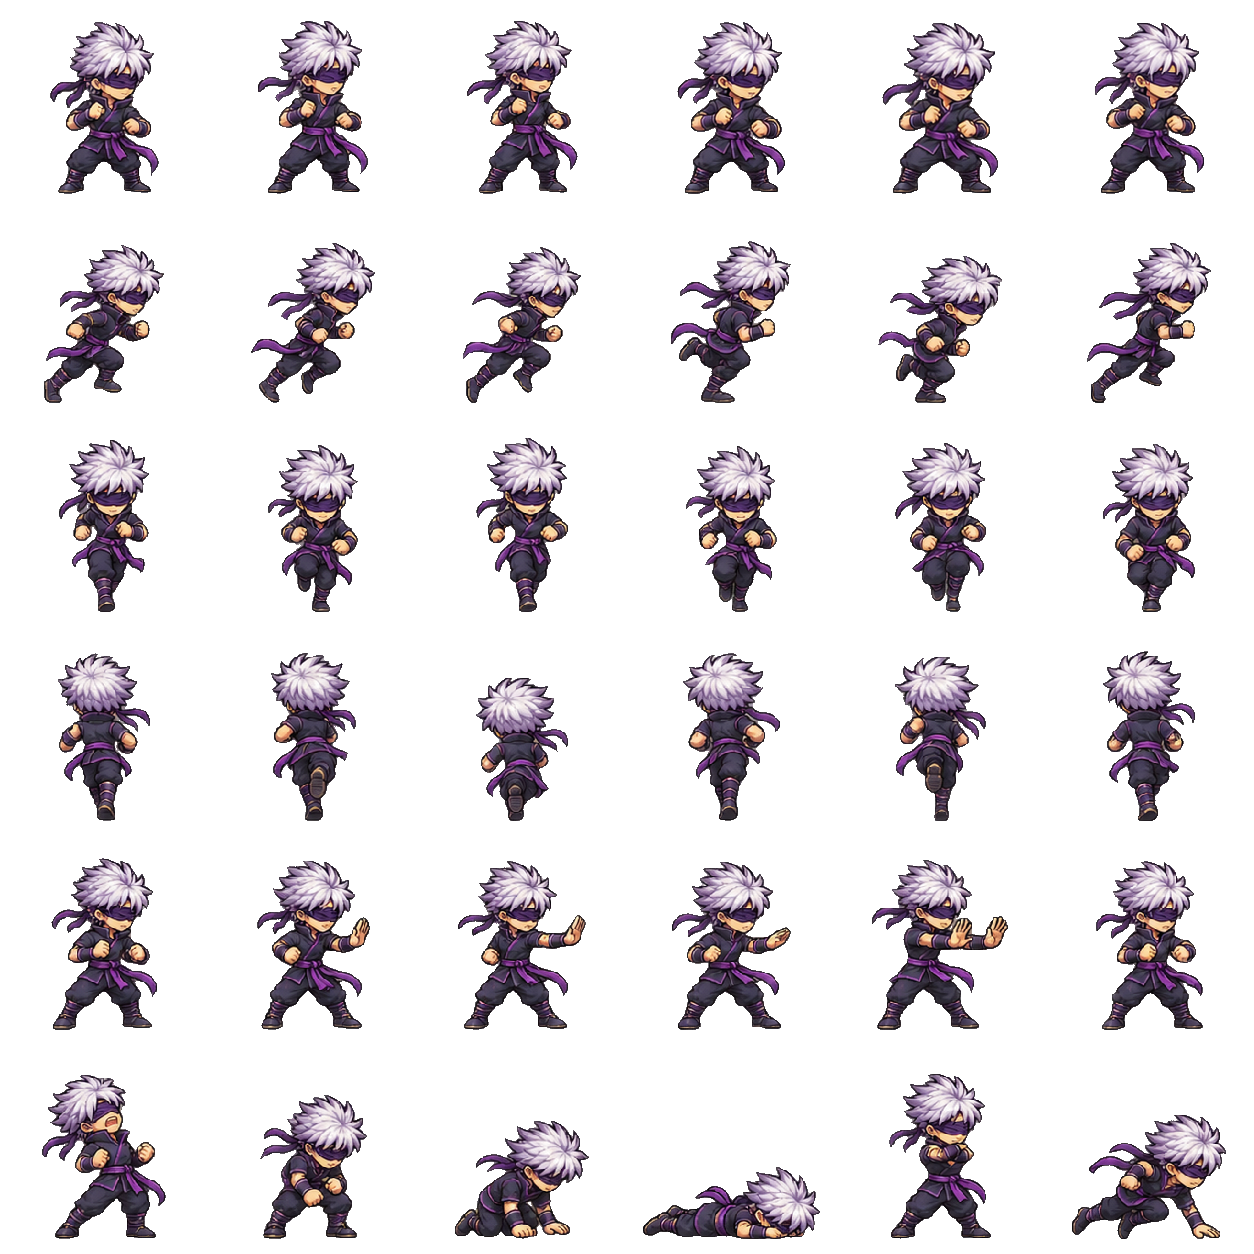
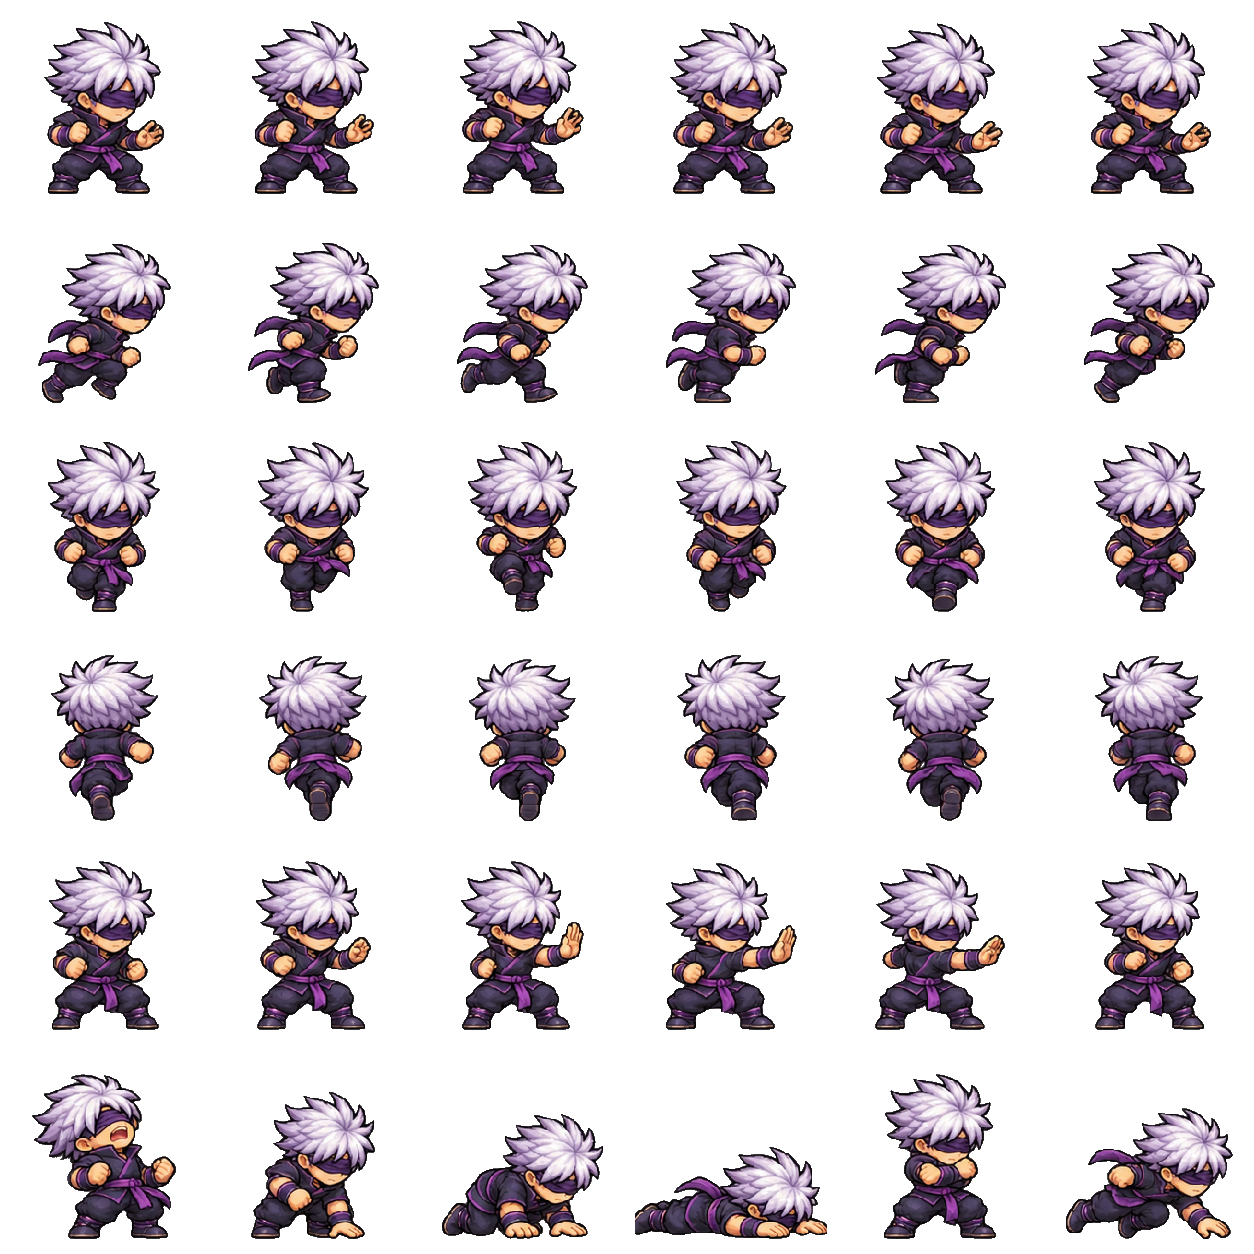
Give Eclipse a unique selection pose and compact combat proportions

diff --git a/index.html b/index.html
@@ -12,5 +12,5 @@
 <section id="modeScreen" class="app-screen" hidden></section><div id="shopConfirm" hidden></div>
 <div id="integrationLoading" role="status" aria-live="polite"><span class="eyebrow">ELDORIA</span><h2>Iniciando Arena dos Campeões…</h2><p id="bootStage">Preparando menus e personagens.</p></div>
 <script src="js/diagnostico.js"></script>
-<script src="js/jogo.js?v=35"></script><script src="js/identidades_campeoes.js?v=11"></script><script src="js/seis_identidades.js?v=20"></script><script src="js/impactos_futuros.js?v=19"></script><script src="js/arena_horizontal.js?v=16"></script><script src="js/lobby_real.js?v=9"></script><script src="js/menus_simples.js?v=20"></script><script src="js/pixel_sprite.js?v=8"></script><script src="js/combate_identidades.js?v=26"></script><script src="js/combate_seis.js?v=27"></script><script src="js/arte_identidades.js?v=30"></script><script src="js/arte_seis.js?v=27"></script><script src="js/interface_identidades.js?v=11"></script><script src="js/interface_seis.js?v=10"></script><script src="js/arena_arte.js?v=15"></script><script src="js/layout_fixo.js?v=19"></script><script src="js/ninja_v22.js?v=26"></script><script src="js/corpos_v24.js?v=28"></script><script src="js/ninja_v25.js?v=26"></script><script src="js/acoes_universais.js?v=26"></script><script src="js/ichigo_v27.js?v=30"></script><script src="js/solar_v29.js?v=33"></script><script src="js/eclipse_v30.js?v=30"></script><script src="js/recuperar_artes.js?v=20"></script><script src="js/ui_escala.js?v=4"></script><script src="js/chefes_base.js?v=1"></script><script src="js/chefes_looks.js?v=1"></script><script src="js/vilao_zorvath.js?v=2"></script><script src="js/cacada_dia.js?v=11"></script><script src="js/chefes_motor.js?v=3"></script><script src="js/chefes_lote.js?v=1"></script><script src="js/menu_v2.js?v=3"></script><script src="js/retencao.js?v=3"></script><script src="js/copia_chefe.js?v=3"></script><script src="js/fase_arcade.js?v=10"></script><script src="js/sobrevivencia.js?v=14"></script><script src="js/economia.js?v=2"></script><script src="js/combate_v3.js?v=13"></script><script src="js/hud_v3.js?v=4"></script><script src="js/combate_v3b.js?v=2"></script><script src="js/menus_v3.js?v=2"></script><script src="js/iniciar.js"></script><script src="js/tela_cheia.js?v=17"></script></body></html>
+<script src="js/jogo.js?v=35"></script><script src="js/identidades_campeoes.js?v=11"></script><script src="js/seis_identidades.js?v=20"></script><script src="js/impactos_futuros.js?v=19"></script><script src="js/arena_horizontal.js?v=16"></script><script src="js/lobby_real.js?v=9"></script><script src="js/menus_simples.js?v=20"></script><script src="js/pixel_sprite.js?v=8"></script><script src="js/combate_identidades.js?v=26"></script><script src="js/combate_seis.js?v=27"></script><script src="js/arte_identidades.js?v=30"></script><script src="js/arte_seis.js?v=27"></script><script src="js/interface_identidades.js?v=11"></script><script src="js/interface_seis.js?v=10"></script><script src="js/arena_arte.js?v=15"></script><script src="js/layout_fixo.js?v=19"></script><script src="js/ninja_v22.js?v=26"></script><script src="js/corpos_v24.js?v=28"></script><script src="js/ninja_v25.js?v=26"></script><script src="js/acoes_universais.js?v=26"></script><script src="js/ichigo_v27.js?v=30"></script><script src="js/solar_v29.js?v=33"></script><script src="js/eclipse_v30.js?v=31"></script><script src="js/recuperar_artes.js?v=20"></script><script src="js/ui_escala.js?v=4"></script><script src="js/chefes_base.js?v=1"></script><script src="js/chefes_looks.js?v=1"></script><script src="js/vilao_zorvath.js?v=2"></script><script src="js/cacada_dia.js?v=11"></script><script src="js/chefes_motor.js?v=3"></script><script src="js/chefes_lote.js?v=1"></script><script src="js/menu_v2.js?v=3"></script><script src="js/retencao.js?v=3"></script><script src="js/copia_chefe.js?v=3"></script><script src="js/fase_arcade.js?v=10"></script><script src="js/sobrevivencia.js?v=14"></script><script src="js/economia.js?v=2"></script><script src="js/combate_v3.js?v=13"></script><script src="js/hud_v3.js?v=4"></script><script src="js/combate_v3b.js?v=2"></script><script src="js/menus_v3.js?v=2"></script><script src="js/iniciar.js"></script><script src="js/tela_cheia.js?v=17"></script></body></html>
 

diff --git a/js/eclipse_v30.js b/js/eclipse_v30.js
@@ -1,6 +1,6 @@
 'use strict';
 // Visual adapters only: damage, movement, resources and cooldowns stay in the combat engine.
-const ECLIPSE30_BODY=rwImage('assets/eclipse_v30/body.webp?v=30');
+const ECLIPSE30_BODY=rwImage('assets/eclipse_v30/body.webp?v=31');
 const ECLIPSE30_KEYS=['repulse','attract','red','teleport','barrier','domain'];
 const ECLIPSE30_FX=Object.fromEntries([...ECLIPSE30_KEYS,'impact'].map(k=>[k,rwImage(`assets/eclipse_v30/${k}.webp?v=30`)]));
 let eclipse30Registration=null;
@@ -87,7 +87,7 @@ rwPaintFX=function(e){if(e.kind==='eclipse-contact')return eclipse30Effect(ctx,'
 const eclipse30OldIcon=icon;
 icon=function(id){const s=skills[id];return s?.champion===4?`<span class="skill-art reforged-icon" aria-hidden="true" style="background-image:url('assets/eclipse_v30/icon-${s.slot}.webp?v=30')"></span>`:eclipse30OldIcon(id);};
 const eclipse30OldArt=championArt;
-championArt=c=>c.id===4?'assets/portraits/campeao_05.webp':eclipse30OldArt(c);
-CHAMPION_HEROES.eclipse='assets/portraits/campeao_05.webp';
+championArt=c=>c.id===4?'assets/eclipse_v30/portrait.webp?v=31':eclipse30OldArt(c);
+CHAMPION_HEROES.eclipse='assets/eclipse_v30/portrait.webp?v=31';
 const eclipse30OldDetail=openChampionDetails;
 openChampionDetails=function(id){eclipse30OldDetail(id);$('#heroDetail')?.classList.toggle('eclipse-detail',Number(id)===4);};

diff --git a/assets/eclipse_v30/README.md b/assets/eclipse_v30/README.md
@@ -1,11 +1,12 @@
 # Lutador do Eclipse — pacote de arte v30
 
-Referência fixa: `assets/portraits/campeao_05.webp`, preservado sem alterações. Corpo e ícones usam cabelo branco, faixa roxa sobre os olhos, anatomia esbelta e traje escuro com detalhes roxos. Referências de acabamento: Guerreiro Astral, Ninja das Brumas e Ronin Carmesim.
+Identidade original: `assets/portraits/campeao_05.webp`, preservado sem alterações. Corpo e ícones usam cabelo branco, faixa roxa sobre os olhos, anatomia compacta de combate e traje escuro com detalhes roxos. Revisão visual 31: nova pose de seleção com eclipse sobre a palma aberta; corpo com cabeça maior, tronco e pernas curtos, na proporção dos quatro primeiros campeões.
 
 Todos os arquivos são **WebP sem perdas**. Corpo e efeitos têm fundo transparente; os ícones têm transparência fora da moldura arredondada. O cenário de seleção é opaco, como nos outros pacotes.
 
 | Arquivo | Conteúdo |
 |---|---|
+| `portrait.webp` | 760 × 1140; nova pose de seleção, mão na cintura e eclipse sobre a outra palma, fundo transparente. |
 | `body.webp` | 1254 × 1254; 6 × 6 células de 209 × 209. Linhas: repouso, corrida lateral, frontal, costas, ataques. Última linha: reação, recuperação, queda, caído, defesa, avanço. |
 | `icon-0.webp` | Repulsão: palma lançando onda azul. |
 | `icon-1.webp` | Atração: mão puxando um vórtice violeta. |
@@ -27,10 +28,11 @@ Todos os arquivos são **WebP sem perdas**. Corpo e efeitos têm fundo transpare
 O corpo tem os pés na linha **y = 193** de cada célula e altura máxima de repouso de **173 px**. Para a escala do elenco, normalize essa altura para aproximadamente **73 px** em combate, mantendo o apoio dos pés em **y = 9** relativo ao ator. Use centro horizontal fixo **104,5**, espelhamento horizontal para olhar à esquerda e respiração ancorada nos pés. Os efeitos têm margem transparente de pelo menos **16 px** em cada célula; o brilho interno é preservado.
 
 Exportação: `node scripts/import-eclipse-v30.cjs /pasta/dos/pngs`.
+Para revisar apenas corpo e retrato: `node scripts/import-eclipse-v30.cjs /pasta/com/body-e-portrait-png --character-only`.
 Validação: `node tests/eclipse-v30.cjs`.
 
 ## Integração no jogo
 
-`js/eclipse_v30.js` conecta o corpo, os ícones e os sete efeitos aos eventos existentes de combate; `css/eclipse_v30.css` aplica o cenário da seleção. O retrato continua apontando para `assets/portraits/campeao_05.webp`. O corpo é desenhado diretamente na resolução do canvas, como os quatro primeiros campeões. A barreira segue sua ativação, absorção e quebra; o domínio segue a duração real da zona. O modo atual mantém três habilidades + ultimate, dash dedicado e barreira passiva; o modo legado mantém os seis slots.
+`js/eclipse_v30.js` conecta o corpo, os ícones e os sete efeitos aos eventos existentes de combate; `css/eclipse_v30.css` aplica o cenário da seleção. O retrato de seleção aponta para `assets/eclipse_v30/portrait.webp?v=31`; a referência original fica preservada. O corpo é desenhado diretamente na resolução do canvas, como os quatro primeiros campeões. A barreira segue sua ativação, absorção e quebra; o domínio segue a duração real da zona. O modo atual mantém três habilidades + ultimate, dash dedicado e barreira passiva; o modo legado mantém os seis slots.
 
 Com um servidor em `http://127.0.0.1:8000`, execute `node tests/eclipse-v30-integration.cjs` para verificar a integração em ambos os modos, incluindo seleção em desktop e celular.
